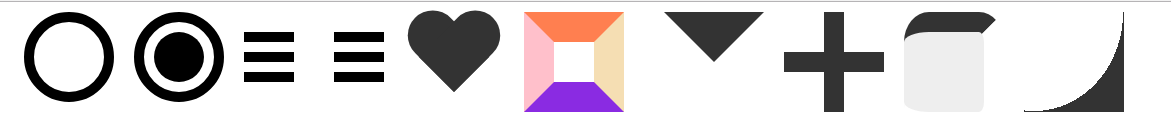
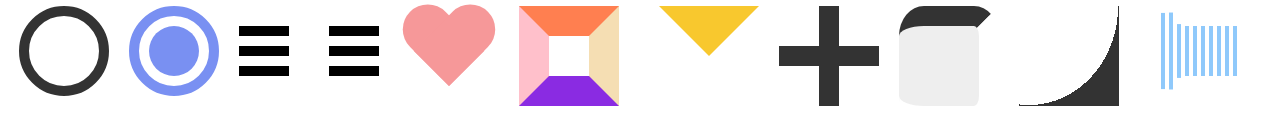
新增加载小icon

diff --git a/css小图标/styles.css b/css小图标/styles.css
@@ -11,7 +11,7 @@
     width: 70px;
     height: 70px;
     margin: 0 20px;
-    border: 10px solid #000;
+    border: 10px solid #333;
     border-radius: 50%;
 }
 /*同心圆*/
@@ -20,8 +20,8 @@
     height: 50px;
     border-radius: 50%;
     padding: 10px;
-    border: 10px solid #000;
-    background: #000;
+    border: 10px solid #7990F2;
+    background: #7990F2;
     background-clip: content-box;  /*背景被裁剪到内容框。IE9及以上*/
     float: left;
 }
@@ -57,7 +57,7 @@
     top: 0;
     width: 50px;
     height: 80px;
-    background: #333;
+    background: #F69899;
     -webkit-border-radius: 50px 50px 0 0;
     border-radius: 50px 50px 0 0;
     -webkit-transform: rotate(-45deg);
@@ -88,7 +88,7 @@
     /*处理ie6最小高度问题*/
     overflow: hidden;
     border-width: 50px;
-    border-color: #333 transparent transparent transparent;
+    border-color: #F8C82E transparent transparent transparent;
     /*border-style: solid;*/
     /*处理ie下背景色为黑色的情况*/
     border-style: solid dashed dashed dashed;
@@ -137,7 +137,25 @@
     background: -moz-radial-gradient(10px 0px,transparent 70%,#333 30%);
 }
 
-
+/*竖条loading……*/
+.barLoaded{ height: 50px; font-size: 0; margin: 20px 0 0 20px;}
+.barLoaded span{ display: inline-block; background-color: #8FC9FB; width: 4px; margin: auto 2px; height: inherit; float: left; }
+.barLoaded span:nth-child(1){ animation: loader 2s infinite;}
+.barLoaded span:nth-child(2){ animation: loader 2s 0.1s infinite;}
+.barLoaded span:nth-child(3){ animation: loader 2s 0.2s infinite;}
+.barLoaded span:nth-child(4){ animation: loader 2s 0.3s infinite;}
+.barLoaded span:nth-child(5){ animation: loader 2s 0.4s infinite;}
+.barLoaded span:nth-child(6){ animation: loader 2s 0.5s infinite;}
+.barLoaded span:nth-child(7){ animation: loader 2s 0.6s infinite;}
+.barLoaded span:nth-child(8){ animation: loader 2s 0.7s infinite;}
+.barLoaded span:nth-child(9){ animation: loader 2s 0.8s infinite;}
+.barLoaded span:nth-child(10){ animation: loader 2s 0.9s infinite;}
+@keyframes loader{
+    0% { transform : scaleY(1);}
+    10% { transform : scaleY(1.6);}
+    20% { transform : scaleY(1);}
+    100% { transform : scaleY(1);}
+}
 
 
 

diff --git a/css小图标/绘制小图标.html b/css小图标/绘制小图标.html
@@ -28,6 +28,10 @@
         <div class="panicus"></div>
         <!--三角鱼-->
         <div class="triangleFish"></div>
+		<!--竖条loading……-->
+		<div class="barLoaded">
+			<span></span><span></span><span></span><span></span><span></span><span></span><span></span><span></span><span></span><span></span>
+		</div>
 	</div>
 </body>
 </html>
